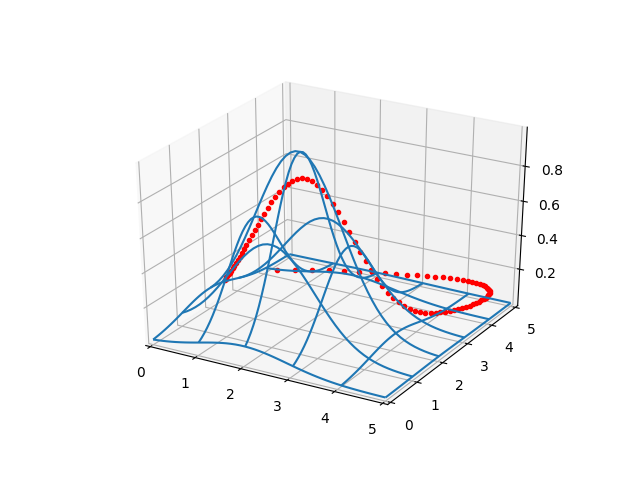
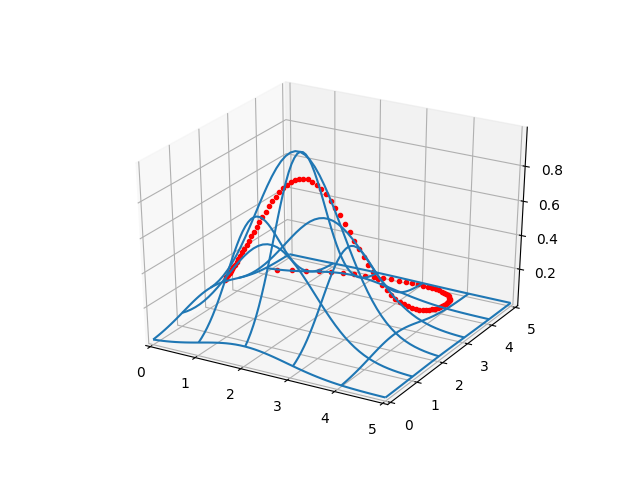
-

diff --git a/calc_multi/calc_multi_40_elev/calc_multi_40_elev.html b/calc_multi/calc_multi_40_elev/calc_multi_40_elev.html
@@ -27,7 +27,7 @@
 from scipy.spatial.distance import cdist
 from matplotlib import cm
 
-def func(x, y):
+def gfunc(x, y):
     s1 = 2.2; x1 = 2.0; y1 = 2.0
     g1 = np.exp( -4 *np.log(2) * ((x-x1)**2+(y-y1)**2) / s1**2)
     return g1 
@@ -38,7 +38,7 @@ x = np.linspace(0,5,D)
 y = np.linspace(0,5,D)
 
 xx,yy = np.meshgrid(x,y)
-zz = func(xx,yy)
+zz = gfunc(xx,yy)
 
 fig = plt.figure()
 ax = fig.gca(projection='3d')
@@ -48,22 +48,80 @@ surf = ax.plot_wireframe(xx, yy, zz,rstride=10, cstride=10)
 
 t = np.linspace(0,1.0,100)
 
-a1,a2,a3 = 1.5, 10.1, 4.0
-b1,b2,b3 = 0.3, 0.4, 30.3
+a1,a2,a3 = 1.5, 8.1, 4.0
+b1,b2,b3 = 0.3, 0.4, 23.3
 
-sx,sy=(1.0,1.0)
+a0,b0=(1.0,1.0)
 ex,ey=(0.3,4.0)
 
-a4 = ex - sx - (a1+a2+a3)
-b4 = ey - sy - (b1+b2+b3)
+a4 = ex - a0 - (a1+a2+a3)
+b4 = ey - b0 - (b1+b2+b3)
 
-x = 1.0 + a1*t + a2*t**2 + a3*t**3 + a4*t**4 
-y = 1.0 + b1*t + b2*t**2 + b3*t**3 + b4*t**4
+x = a0 + a1*t + a2*t**2 + a3*t**3 + a4*t**4 
+y = b0 + b1*t + b2*t**2 + b3*t**3 + b4*t**4
 
-ax.plot3D(x, y, func(x,y),'r.')
+ax.plot3D(x, y, gfunc(x,y),'r.')
 
 plt.savefig('calc_multi_40_elev_01.png')
 </code></pre>
 
 <p><img alt="" src="calc_multi_40_elev_01.png" /></p>
+<pre><code class="python">plt.xlim(0,5.0)
+plt.ylim(0,5.0)
+plt.plot(x,y)
+plt.savefig('calc_multi_40_elev_02.png')
+</code></pre>
+
+<p>$$
+\int_{t=0}^{t=1} f(x(t),y(t)) \sqrt{(\mathrm{d} x/\mathrm{d} t)^2 + (\mathrm{d} y/\mathrm{d} t)^2} \mathrm{d} t
+$$</p>
+<pre><code class="python">import sympy
+
+vars = 't a0 a1 a2 a3 b0 b1 b2 b3 gamma x y'
+t, a0, a1, a2, a3, b0, b1, b2, b3, gamma, x, y = sympy.symbols(vars)
+
+xdef = a0 + a1*t + a2*t**2 + a3*t**3 + a4*t**4
+ydef = b0 + b1*t + b2*t**2 + b3*t**3 + b4*t**4
+
+dxdt = sympy.diff(xdef,t)
+print (dxdt)
+dydt = sympy.diff(ydef,t)
+print (dydt)
+sqrtdef = sympy.sqrt(sympy.diff(xdef,t)**2 + sympy.diff(ydef,t))
+print (sqrtdef)
+</code></pre>
+
+<pre><code>a1 + 2*a2*t + 3*a3*t**2 - 65.2*t**3
+b1 + 2*b2*t + 3*b3*t**2 - 112.0*t**3
+sqrt(b1 + 2*b2*t + 3*b3*t**2 - 112.0*t**3 + (a1 + 2*a2*t + 3*a3*t**2 - 65.2*t**3)**2)
+</code></pre>
+
+<pre><code class="python">def intval(t,a0,a1,a2,a3,a4,b0,b1,b2,b3,b4):
+   sq = np.sqrt(b1 + 2*b2*t + 3*b3*t**2 - 112.0*t**3 + (a1 + 2*a2*t + 3*a3*t**2 - 65.2*t**3)**2)
+   x = a0 + a1*t + a2*t**2 + a3*t**3 + a4*t**4 
+   y = b0 + b1*t + b2*t**2 + b3*t**3 + b4*t**4
+   x = np.array(x)
+   y = np.array(y)   
+   z = gfunc(x,y)   
+   res = z * sq
+   T = np.trapz(res, x=t)
+   return T
+
+t = np.linspace(0,1,100)
+a0,a1,a2,a3 = 1.0, 1.5, 10.1, 4.0
+b0,b1,b2,b3 = 1.0, 0.3, 0.4, 30.3
+
+sx,sy=(a0,b0)
+ex,ey=(0.3,4.0)
+
+a4 = ex - sx - (a1+a2+a3)
+b4 = ey - sy - (b1+b2+b3)
+f
+T = intval(t,a0,a1,a2,a3,a4,b0,b1,b2,b3,b4)
+print (T)
+</code></pre>
+
+<pre><code>1.7109299071584967
+</code></pre>
+
 <p>[devam edecek]</p>

diff --git a/calc_multi/calc_multi_40_elev/daglar_arasinda_en_optimal_yuruyus_yolu_bulmak.html b/calc_multi/calc_multi_40_elev/daglar_arasinda_en_optimal_yuruyus_yolu_bulmak.html
@@ -27,7 +27,7 @@
 from scipy.spatial.distance import cdist
 from matplotlib import cm
 
-def func(x, y):
+def gfunc(x, y):
     s1 = 2.2; x1 = 2.0; y1 = 2.0
     g1 = np.exp( -4 *np.log(2) * ((x-x1)**2+(y-y1)**2) / s1**2)
     return g1 
@@ -38,7 +38,7 @@ x = np.linspace(0,5,D)
 y = np.linspace(0,5,D)
 
 xx,yy = np.meshgrid(x,y)
-zz = func(xx,yy)
+zz = gfunc(xx,yy)
 
 fig = plt.figure()
 ax = fig.gca(projection='3d')
@@ -48,22 +48,80 @@ surf = ax.plot_wireframe(xx, yy, zz,rstride=10, cstride=10)
 
 t = np.linspace(0,1.0,100)
 
-a1,a2,a3 = 1.5, 10.1, 4.0
-b1,b2,b3 = 0.3, 0.4, 30.3
+a1,a2,a3 = 1.5, 8.1, 4.0
+b1,b2,b3 = 0.3, 0.4, 23.3
 
-sx,sy=(1.0,1.0)
+a0,b0=(1.0,1.0)
 ex,ey=(0.3,4.0)
 
-a4 = ex - sx - (a1+a2+a3)
-b4 = ey - sy - (b1+b2+b3)
+a4 = ex - a0 - (a1+a2+a3)
+b4 = ey - b0 - (b1+b2+b3)
 
-x = 1.0 + a1*t + a2*t**2 + a3*t**3 + a4*t**4 
-y = 1.0 + b1*t + b2*t**2 + b3*t**3 + b4*t**4
+x = a0 + a1*t + a2*t**2 + a3*t**3 + a4*t**4 
+y = b0 + b1*t + b2*t**2 + b3*t**3 + b4*t**4
 
-ax.plot3D(x, y, func(x,y),'r.')
+ax.plot3D(x, y, gfunc(x,y),'r.')
 
 plt.savefig('calc_multi_40_elev_01.png')
 </code></pre>
 
 <p><img alt="" src="calc_multi_40_elev_01.png" /></p>
+<pre><code class="python">plt.xlim(0,5.0)
+plt.ylim(0,5.0)
+plt.plot(x,y)
+plt.savefig('calc_multi_40_elev_02.png')
+</code></pre>
+
+<p>$$
+\int_{t=0}^{t=1} f(x(t),y(t)) \sqrt{(\mathrm{d} x/\mathrm{d} t)^2 + (\mathrm{d} y/\mathrm{d} t)^2} \mathrm{d} t
+$$</p>
+<pre><code class="python">import sympy
+
+vars = 't a0 a1 a2 a3 b0 b1 b2 b3 gamma x y'
+t, a0, a1, a2, a3, b0, b1, b2, b3, gamma, x, y = sympy.symbols(vars)
+
+xdef = a0 + a1*t + a2*t**2 + a3*t**3 + a4*t**4
+ydef = b0 + b1*t + b2*t**2 + b3*t**3 + b4*t**4
+
+dxdt = sympy.diff(xdef,t)
+print (dxdt)
+dydt = sympy.diff(ydef,t)
+print (dydt)
+sqrtdef = sympy.sqrt(sympy.diff(xdef,t)**2 + sympy.diff(ydef,t))
+print (sqrtdef)
+</code></pre>
+
+<pre><code>a1 + 2*a2*t + 3*a3*t**2 - 65.2*t**3
+b1 + 2*b2*t + 3*b3*t**2 - 112.0*t**3
+sqrt(b1 + 2*b2*t + 3*b3*t**2 - 112.0*t**3 + (a1 + 2*a2*t + 3*a3*t**2 - 65.2*t**3)**2)
+</code></pre>
+
+<pre><code class="python">def intval(t,a0,a1,a2,a3,a4,b0,b1,b2,b3,b4):
+   sq = np.sqrt(b1 + 2*b2*t + 3*b3*t**2 - 112.0*t**3 + (a1 + 2*a2*t + 3*a3*t**2 - 65.2*t**3)**2)
+   x = a0 + a1*t + a2*t**2 + a3*t**3 + a4*t**4 
+   y = b0 + b1*t + b2*t**2 + b3*t**3 + b4*t**4
+   x = np.array(x)
+   y = np.array(y)   
+   z = gfunc(x,y)   
+   res = z * sq
+   T = np.trapz(res, x=t)
+   return T
+
+t = np.linspace(0,1,100)
+a0,a1,a2,a3 = 1.0, 1.5, 10.1, 4.0
+b0,b1,b2,b3 = 1.0, 0.3, 0.4, 30.3
+
+sx,sy=(a0,b0)
+ex,ey=(0.3,4.0)
+
+a4 = ex - sx - (a1+a2+a3)
+b4 = ey - sy - (b1+b2+b3)
+f
+T = intval(t,a0,a1,a2,a3,a4,b0,b1,b2,b3,b4)
+print (T)
+</code></pre>
+
+<pre><code>1.7109299071584967
+</code></pre>
+
 <p>[devam edecek]</p>

diff --git a/calc_multi/calc_multi_40_elev/calc_multi_40_elev.tex b/calc_multi/calc_multi_40_elev/calc_multi_40_elev.tex
@@ -7,7 +7,7 @@ from mpl_toolkits.mplot3d import Axes3D
 from scipy.spatial.distance import cdist
 from matplotlib import cm
 
-def func(x, y):
+def gfunc(x, y):
     s1 = 2.2; x1 = 2.0; y1 = 2.0
     g1 = np.exp( -4 *np.log(2) * ((x-x1)**2+(y-y1)**2) / s1**2)
     return g1 
@@ -18,7 +18,7 @@ x = np.linspace(0,5,D)
 y = np.linspace(0,5,D)
 
 xx,yy = np.meshgrid(x,y)
-zz = func(xx,yy)
+zz = gfunc(xx,yy)
 
 fig = plt.figure()
 ax = fig.gca(projection='3d')
@@ -28,24 +28,101 @@ surf = ax.plot_wireframe(xx, yy, zz,rstride=10, cstride=10)
 
 t = np.linspace(0,1.0,100)
 
-a1,a2,a3 = 1.5, 10.1, 4.0
-b1,b2,b3 = 0.3, 0.4, 30.3
+a1,a2,a3 = 1.5, 8.1, 4.0
+b1,b2,b3 = 0.3, 0.4, 23.3
 
-sx,sy=(1.0,1.0)
+a0,b0=(1.0,1.0)
 ex,ey=(0.3,4.0)
 
-a4 = ex - sx - (a1+a2+a3)
-b4 = ey - sy - (b1+b2+b3)
+a4 = ex - a0 - (a1+a2+a3)
+b4 = ey - b0 - (b1+b2+b3)
 
-x = 1.0 + a1*t + a2*t**2 + a3*t**3 + a4*t**4 
-y = 1.0 + b1*t + b2*t**2 + b3*t**3 + b4*t**4
+x = a0 + a1*t + a2*t**2 + a3*t**3 + a4*t**4 
+y = b0 + b1*t + b2*t**2 + b3*t**3 + b4*t**4
 
-ax.plot3D(x, y, func(x,y),'r.')
+ax.plot3D(x, y, gfunc(x,y),'r.')
 
 plt.savefig('calc_multi_40_elev_01.png')
 \end{minted}
 
 \includegraphics[width=20em]{calc_multi_40_elev_01.png}
+
+\begin{minted}[fontsize=\footnotesize]{python}
+plt.xlim(0,5.0)
+plt.ylim(0,5.0)
+plt.plot(x,y)
+plt.savefig('calc_multi_40_elev_02.png')
+\end{minted}
+
+
+
+$$
+\int_{t=0}^{t=1} f(x(t),y(t)) \sqrt{(\ud x/\ud t)^2 + (\ud y/\ud t)^2} \ud t
+$$
+
+\begin{minted}[fontsize=\footnotesize]{python}
+import sympy
+
+vars = 't a0 a1 a2 a3 b0 b1 b2 b3 gamma x y'
+t, a0, a1, a2, a3, b0, b1, b2, b3, gamma, x, y = sympy.symbols(vars)
+
+xdef = a0 + a1*t + a2*t**2 + a3*t**3 + a4*t**4
+ydef = b0 + b1*t + b2*t**2 + b3*t**3 + b4*t**4
+
+dxdt = sympy.diff(xdef,t)
+print (dxdt)
+dydt = sympy.diff(ydef,t)
+print (dydt)
+sqrtdef = sympy.sqrt(sympy.diff(xdef,t)**2 + sympy.diff(ydef,t))
+print (sqrtdef)
+\end{minted}
+
+\begin{verbatim}
+a1 + 2*a2*t + 3*a3*t**2 - 65.2*t**3
+b1 + 2*b2*t + 3*b3*t**2 - 112.0*t**3
+sqrt(b1 + 2*b2*t + 3*b3*t**2 - 112.0*t**3 + (a1 + 2*a2*t + 3*a3*t**2 - 65.2*t**3)**2)
+\end{verbatim}
+
+
+\begin{minted}[fontsize=\footnotesize]{python}
+def intval(t,a0,a1,a2,a3,a4,b0,b1,b2,b3,b4):
+   sq = np.sqrt(b1 + 2*b2*t + 3*b3*t**2 - 112.0*t**3 + (a1 + 2*a2*t + 3*a3*t**2 - 65.2*t**3)**2)
+   x = a0 + a1*t + a2*t**2 + a3*t**3 + a4*t**4 
+   y = b0 + b1*t + b2*t**2 + b3*t**3 + b4*t**4
+   x = np.array(x)
+   y = np.array(y)   
+   z = gfunc(x,y)   
+   res = z * sq
+   T = np.trapz(res, x=t)
+   return T
+
+t = np.linspace(0,1,100)
+a0,a1,a2,a3 = 1.0, 1.5, 10.1, 4.0
+b0,b1,b2,b3 = 1.0, 0.3, 0.4, 30.3
+
+sx,sy=(a0,b0)
+ex,ey=(0.3,4.0)
+
+a4 = ex - sx - (a1+a2+a3)
+b4 = ey - sy - (b1+b2+b3)
+f
+T = intval(t,a0,a1,a2,a3,a4,b0,b1,b2,b3,b4)
+print (T)
+\end{minted}
+
+\begin{verbatim}
+1.7109299071584967
+\end{verbatim}
+
+
+
+
+
+
+
+
+
+
 
 
 
